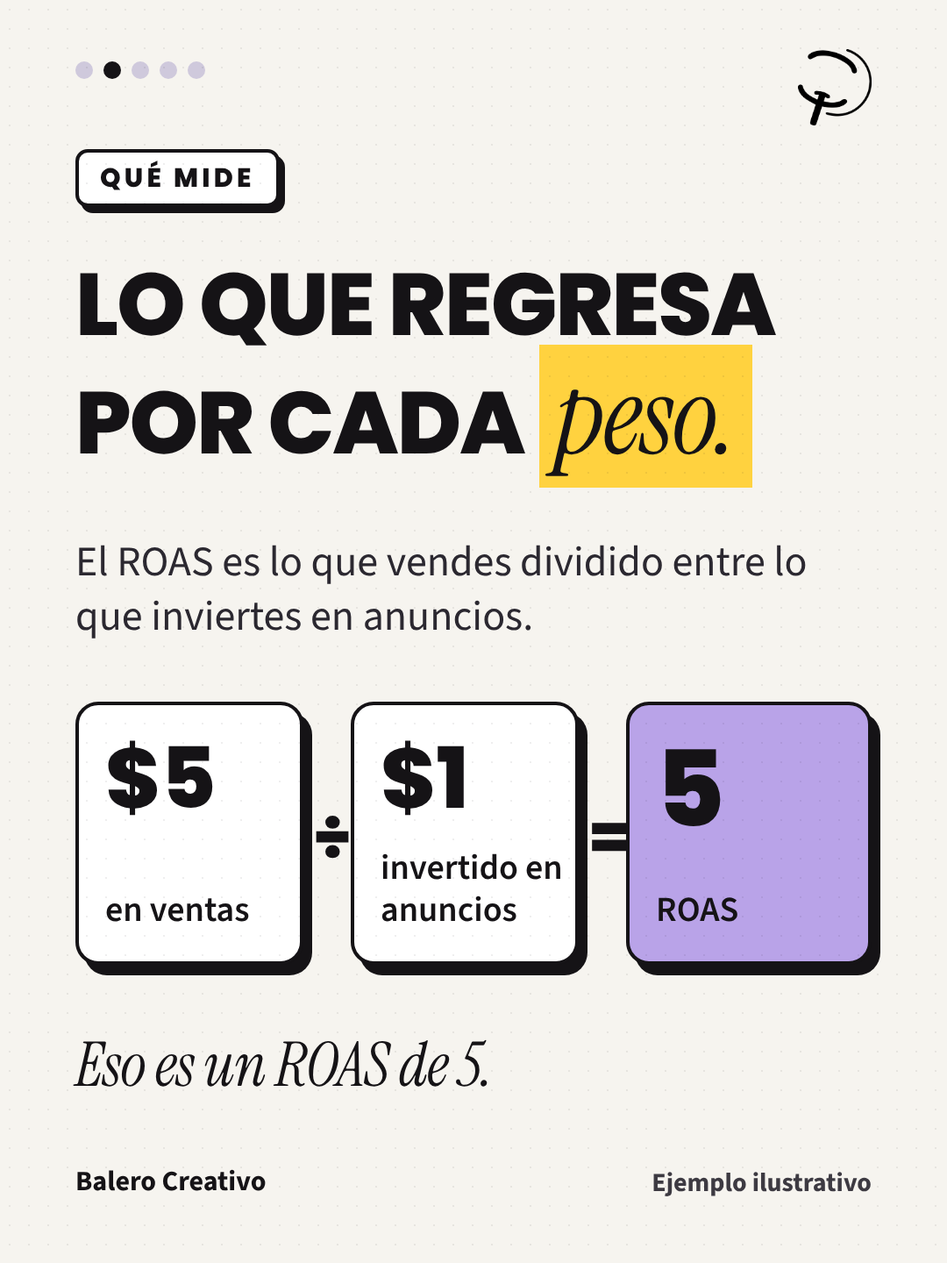
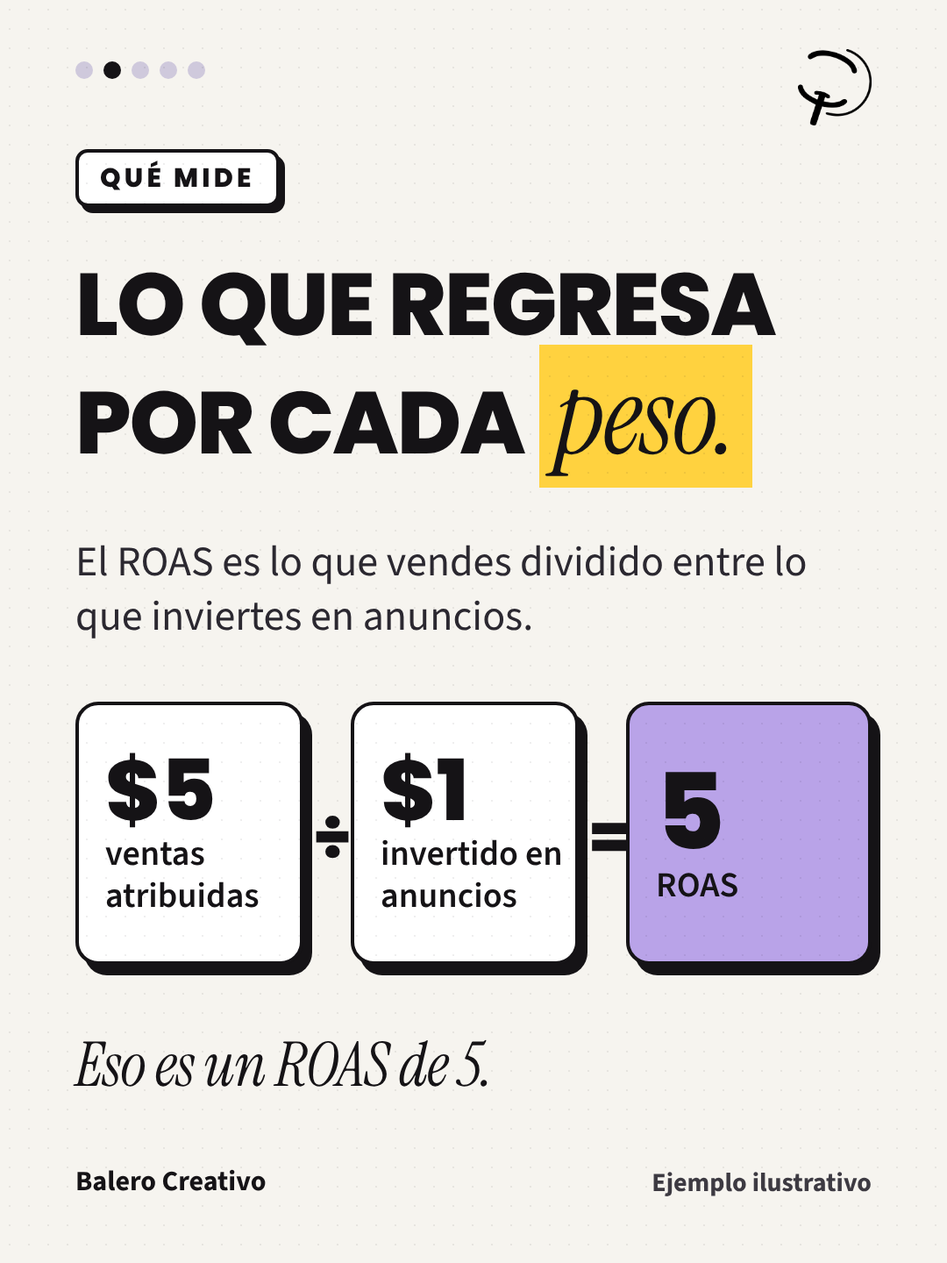
ROAS: texto centrado verticalmente en las cajas; fórmula con ventas atribuidas
Claude-Session: https://claude.ai/code/session_01Bq7ZC7FDz5LcdZBgNXTuBm

Changed region(s): [[0.3972, 0.5938, 0.6111, 0.75], [0.0917, 0.5625, 0.275, 0.75], [0.6722, 0.5938, 0.7944, 0.75]]

diff --git a/clientes/balero/diseno/2026-11/estilo-editorial/semana/roasig.html b/clientes/balero/diseno/2026-11/estilo-editorial/semana/roasig.html
@@ -60,4 +60,4 @@ body{background:#888}
 .meter{position:absolute;left:86px;right:86px;background:#fff;border:4px solid #151316;border-radius:26px;box-shadow:10px 12px 0 #151316;overflow:hidden}
 
 .bigy{position:absolute;left:86px;font:800 330px/.9 Poppins;background:#FFD23F;padding:10px 30px 24px;letter-spacing:-.04em}
-</style></head><body><div class="s" id="s1"><div class="dots"><i style="background:#151316"></i><i style="background:#cfc9dc"></i><i style="background:#cfc9dc"></i><i style="background:#cfc9dc"></i><i style="background:#cfc9dc"></i></div><img class="logo" src="/home/user/balero/.claude/skills/balero-imagenes/assets/logo-balero.png"><div class="kick" style="top:170px">Pregunta de dueños de negocio</div><div class="serif" style="position:absolute;left:86px;top:290px;font-size:104px;line-height:1">El ROAS no</div><div class="big" style="top:420px;font-size:120px;line-height:1.08">DESCUENTA</div><div class="big" style="top:540px;font-size:120px;line-height:1.08">TUS COSTOS.</div><div class="serif" style="position:absolute;left:86px;top:760px;font-size:56px;line-height:1"><span class="hl">Tu ROAS puede verse bien</span></div><div class="serif" style="position:absolute;left:86px;top:836px;font-size:56px;line-height:1"><span class="hl">y tu negocio perder dinero.</span></div><div class="stat" style="left:86px;top:1000px;width:908px;height:230px;background:#fff"><b style="font-size:96px">ROAS</b><span>ventas ÷ inversión en anuncios</span></div><div class="foot"><span>Balero Creativo</span></div><div style="position:absolute;right:86px;bottom:70px;font:800 30px Poppins;letter-spacing:.14em">DESLIZA →</div></div><div class="s" id="s2"><div class="dots"><i style="background:#cfc9dc"></i><i style="background:#151316"></i><i style="background:#cfc9dc"></i><i style="background:#cfc9dc"></i><i style="background:#cfc9dc"></i></div><img class="logo" src="/home/user/balero/.claude/skills/balero-imagenes/assets/logo-balero.png"><div class="chip">QUÉ MIDE</div><div class="t" style="top:290px;font-size:100px">Lo que regresa<br>por cada <span class="serif" style="font-size:1.25em;text-transform:none;font-weight:400;background:#FFD23F;padding:0 18px">peso.</span></div><div class="body" style="top:610px;width:880px;font-size:48px;color:#2b2830">El ROAS es lo que vendes dividido entre lo que inviertes en anuncios.</div><div style="position:absolute;left:86px;top:800px;width:260px;height:300px;background:#fff;border:4px solid #151316;border-radius:26px;box-shadow:10px 12px 0 #151316"><b style="position:absolute;left:30px;top:36px;font:800 96px/1 Poppins">$5</b><span style="position:absolute;left:30px;bottom:34px;font:600 40px/1.2 'Source Sans Pro'">en ventas</span></div><div class="sc" style="left:358px;top:900px">÷</div><div style="position:absolute;left:400px;top:800px;width:260px;height:300px;background:#fff;border:4px solid #151316;border-radius:26px;box-shadow:10px 12px 0 #151316"><b style="position:absolute;left:30px;top:36px;font:800 96px/1 Poppins">$1</b><span style="position:absolute;left:30px;bottom:34px;font:600 40px/1.2 'Source Sans Pro'">invertido en anuncios</span></div><div class="sc" style="left:672px;top:900px">=</div><div style="position:absolute;left:714px;top:800px;width:280px;height:300px;background:#B9A3E8;border:4px solid #151316;border-radius:26px;box-shadow:10px 12px 0 #151316"><b style="position:absolute;left:30px;top:36px;font:800 120px/1 Poppins">5</b><span style="position:absolute;left:30px;bottom:34px;font:600 40px/1.2 'Source Sans Pro'">ROAS</span></div><div class="serif" style="position:absolute;left:86px;top:1180px;font-size:70px;line-height:1">Eso es un ROAS de 5.</div><div class="foot"><span>Balero Creativo</span></div><div style="position:absolute;right:86px;bottom:70px;font:700 30px 'Source Sans Pro';color:#3d3a42;text-align:right;max-width:640px">Ejemplo ilustrativo</div></div><div class="s" id="s3"><div class="dots"><i style="background:#cfc9dc"></i><i style="background:#cfc9dc"></i><i style="background:#151316"></i><i style="background:#cfc9dc"></i><i style="background:#cfc9dc"></i></div><img class="logo" src="/home/user/balero/.claude/skills/balero-imagenes/assets/logo-balero.png"><div class="chip">LO QUE NO INCLUYE</div><div class="t" style="top:290px;font-size:100px">El ROAS no ve<br>tus <span class="serif" style="font-size:1.25em;text-transform:none;font-weight:400;background:#FFD23F;padding:0 18px">costos.</span></div><div class="body" style="top:610px;width:880px;font-size:48px;color:#2b2830">No descuenta el producto, el envío, las comisiones ni tu tiempo.</div><div class="cmp bad" style="top:815px;height:190px"><div class="m">✗</div><div><small>NO INCLUYE</small>Producto, envío, comisiones y tu tiempo</div></div><div class="cmp good" style="top:1025px;height:190px"><div class="m">✓</div><div><small>SÍ TE DICE</small>Cuánto regresa cada peso en anuncios</div></div><div class="foot"><span>Balero Creativo</span></div></div><div class="s" id="s4"><div class="dots"><i style="background:#cfc9dc"></i><i style="background:#cfc9dc"></i><i style="background:#cfc9dc"></i><i style="background:#151316"></i><i style="background:#cfc9dc"></i></div><img class="logo" src="/home/user/balero/.claude/skills/balero-imagenes/assets/logo-balero.png"><div class="chip">LO QUE SÍ DICE</div><div class="t" style="top:290px;font-size:90px">Pagar el anuncio<br>no es <span class="serif" style="font-size:1.25em;text-transform:none;font-weight:400;background:#FFD23F;padding:0 18px">ganar.</span></div><div class="body" style="top:610px;width:880px;font-size:48px;color:#2b2830">El ROAS compara campañas entre sí. Para saber si ganas, calcula cuánto te queda por venta.</div><div class="stat" style="left:86px;top:820px;width:908px;height:230px;background:#fff"><b style="font-size:80px">Tu margen</b><span>lo que te queda después de costos y anuncios</span></div><div class="serif" style="position:absolute;left:86px;top:1110px;font-size:56px;line-height:1">Calcula tu margen antes de subir el presupuesto.</div><div class="foot"><span>Balero Creativo</span></div></div><div class="s" id="s5"><div class="dots"><i style="background:#cfc9dc"></i><i style="background:#cfc9dc"></i><i style="background:#cfc9dc"></i><i style="background:#cfc9dc"></i><i style="background:#151316"></i></div><img class="logo" src="/home/user/balero/.claude/skills/balero-imagenes/assets/logo-balero.png"><div class="serif" style="position:absolute;left:86px;top:280px;font-size:96px;line-height:1">Tú decides</div><div class="big" style="top:400px;font-size:100px;line-height:1.08">CUÁNTO TE QUEDA</div><div class="serif" style="position:absolute;left:86px;top:560px;font-size:96px;line-height:1"><span class="hl">por venta.</span></div><div class="tape" style="top:800px;font-family:Poppins;font-weight:800;font-size:36px">Diagnóstico gratis de 15 minutos</div><div class="arrow" style="top:800px;transform:translateY(22px)">→</div><div class="body" style="top:1000px;width:880px">Escríbenos por mensaje directo.</div><div class="foot"><span>Balero Creativo</span></div></div></body></html>
+</style></head><body><div class="s" id="s1"><div class="dots"><i style="background:#151316"></i><i style="background:#cfc9dc"></i><i style="background:#cfc9dc"></i><i style="background:#cfc9dc"></i><i style="background:#cfc9dc"></i></div><img class="logo" src="/home/user/balero/.claude/skills/balero-imagenes/assets/logo-balero.png"><div class="kick" style="top:170px">Pregunta de dueños de negocio</div><div class="serif" style="position:absolute;left:86px;top:290px;font-size:104px;line-height:1">El ROAS no</div><div class="big" style="top:420px;font-size:120px;line-height:1.08">DESCUENTA</div><div class="big" style="top:540px;font-size:120px;line-height:1.08">TUS COSTOS.</div><div class="serif" style="position:absolute;left:86px;top:760px;font-size:56px;line-height:1"><span class="hl">Tu ROAS puede verse bien</span></div><div class="serif" style="position:absolute;left:86px;top:836px;font-size:56px;line-height:1"><span class="hl">y tu negocio perder dinero.</span></div><div class="stat" style="display:flex;flex-direction:column;justify-content:center;left:86px;top:1000px;width:908px;height:230px;background:#fff"><b style="font-size:96px">ROAS</b><span>ventas atribuidas ÷ inversión en anuncios</span></div><div class="foot"><span>Balero Creativo</span></div><div style="position:absolute;right:86px;bottom:70px;font:800 30px Poppins;letter-spacing:.14em">DESLIZA →</div></div><div class="s" id="s2"><div class="dots"><i style="background:#cfc9dc"></i><i style="background:#151316"></i><i style="background:#cfc9dc"></i><i style="background:#cfc9dc"></i><i style="background:#cfc9dc"></i></div><img class="logo" src="/home/user/balero/.claude/skills/balero-imagenes/assets/logo-balero.png"><div class="chip">QUÉ MIDE</div><div class="t" style="top:290px;font-size:100px">Lo que regresa<br>por cada <span class="serif" style="font-size:1.25em;text-transform:none;font-weight:400;background:#FFD23F;padding:0 18px">peso.</span></div><div class="body" style="top:610px;width:880px;font-size:48px;color:#2b2830">El ROAS es lo que vendes dividido entre lo que inviertes en anuncios.</div><div style="position:absolute;left:86px;top:800px;width:260px;height:300px;background:#fff;border:4px solid #151316;border-radius:26px;box-shadow:10px 12px 0 #151316;display:flex;flex-direction:column;justify-content:center;padding-left:30px"><b style="font:800 96px/1 Poppins">$5</b><span style="font:600 40px/1.2 'Source Sans Pro'">ventas atribuidas</span></div><div class="sc" style="left:358px;top:900px">÷</div><div style="position:absolute;left:400px;top:800px;width:260px;height:300px;background:#fff;border:4px solid #151316;border-radius:26px;box-shadow:10px 12px 0 #151316;display:flex;flex-direction:column;justify-content:center;padding-left:30px"><b style="font:800 96px/1 Poppins">$1</b><span style="font:600 40px/1.2 'Source Sans Pro'">invertido en anuncios</span></div><div class="sc" style="left:672px;top:900px">=</div><div style="position:absolute;left:714px;top:800px;width:280px;height:300px;background:#B9A3E8;border:4px solid #151316;border-radius:26px;box-shadow:10px 12px 0 #151316;display:flex;flex-direction:column;justify-content:center;padding-left:30px"><b style="font:800 120px/1 Poppins">5</b><span style="font:600 40px/1.2 'Source Sans Pro'">ROAS</span></div><div class="serif" style="position:absolute;left:86px;top:1180px;font-size:70px;line-height:1">Eso es un ROAS de 5.</div><div class="foot"><span>Balero Creativo</span></div><div style="position:absolute;right:86px;bottom:70px;font:700 30px 'Source Sans Pro';color:#3d3a42;text-align:right;max-width:640px">Ejemplo ilustrativo</div></div><div class="s" id="s3"><div class="dots"><i style="background:#cfc9dc"></i><i style="background:#cfc9dc"></i><i style="background:#151316"></i><i style="background:#cfc9dc"></i><i style="background:#cfc9dc"></i></div><img class="logo" src="/home/user/balero/.claude/skills/balero-imagenes/assets/logo-balero.png"><div class="chip">LO QUE NO INCLUYE</div><div class="t" style="top:290px;font-size:100px">El ROAS no ve<br>tus <span class="serif" style="font-size:1.25em;text-transform:none;font-weight:400;background:#FFD23F;padding:0 18px">costos.</span></div><div class="body" style="top:610px;width:880px;font-size:48px;color:#2b2830">No descuenta el producto, el envío, las comisiones ni tu tiempo.</div><div class="cmp bad" style="display:flex;align-items:center;top:815px;height:190px"><div class="m">✗</div><div><small>NO INCLUYE</small>Producto, envío, comisiones y tu tiempo</div></div><div class="cmp good" style="display:flex;align-items:center;top:1025px;height:190px"><div class="m">✓</div><div><small>SÍ TE DICE</small>Cuánto regresa cada peso en anuncios</div></div><div class="foot"><span>Balero Creativo</span></div></div><div class="s" id="s4"><div class="dots"><i style="background:#cfc9dc"></i><i style="background:#cfc9dc"></i><i style="background:#cfc9dc"></i><i style="background:#151316"></i><i style="background:#cfc9dc"></i></div><img class="logo" src="/home/user/balero/.claude/skills/balero-imagenes/assets/logo-balero.png"><div class="chip">LO QUE SÍ DICE</div><div class="t" style="top:290px;font-size:90px">Pagar el anuncio<br>no es <span class="serif" style="font-size:1.25em;text-transform:none;font-weight:400;background:#FFD23F;padding:0 18px">ganar.</span></div><div class="body" style="top:610px;width:880px;font-size:48px;color:#2b2830">El ROAS compara campañas entre sí. Para saber si ganas, calcula cuánto te queda por venta.</div><div class="stat" style="display:flex;flex-direction:column;justify-content:center;left:86px;top:820px;width:908px;height:230px;background:#fff"><b style="font-size:80px">Tu margen</b><span>lo que te queda después de costos y anuncios</span></div><div class="serif" style="position:absolute;left:86px;top:1110px;font-size:56px;line-height:1">Calcula tu margen antes de subir el presupuesto.</div><div class="foot"><span>Balero Creativo</span></div></div><div class="s" id="s5"><div class="dots"><i style="background:#cfc9dc"></i><i style="background:#cfc9dc"></i><i style="background:#cfc9dc"></i><i style="background:#cfc9dc"></i><i style="background:#151316"></i></div><img class="logo" src="/home/user/balero/.claude/skills/balero-imagenes/assets/logo-balero.png"><div class="serif" style="position:absolute;left:86px;top:280px;font-size:96px;line-height:1">Tú decides</div><div class="big" style="top:400px;font-size:100px;line-height:1.08">CUÁNTO TE QUEDA</div><div class="serif" style="position:absolute;left:86px;top:560px;font-size:96px;line-height:1"><span class="hl">por venta.</span></div><div class="tape" style="top:800px;font-family:Poppins;font-weight:800;font-size:36px">Diagnóstico gratis de 15 minutos</div><div class="arrow" style="top:800px;transform:translateY(22px)">→</div><div class="body" style="top:1000px;width:880px">Escríbenos por mensaje directo.</div><div class="foot"><span>Balero Creativo</span></div></div></body></html>

diff --git a/clientes/balero/diseno/2026-11/semana-09/roas-ig/roasig.html b/clientes/balero/diseno/2026-11/semana-09/roas-ig/roasig.html
@@ -60,4 +60,4 @@ body{background:#888}
 .meter{position:absolute;left:86px;right:86px;background:#fff;border:4px solid #151316;border-radius:26px;box-shadow:10px 12px 0 #151316;overflow:hidden}
 
 .bigy{position:absolute;left:86px;font:800 330px/.9 Poppins;background:#FFD23F;padding:10px 30px 24px;letter-spacing:-.04em}
-</style></head><body><div class="s" id="s1"><div class="dots"><i style="background:#151316"></i><i style="background:#cfc9dc"></i><i style="background:#cfc9dc"></i><i style="background:#cfc9dc"></i><i style="background:#cfc9dc"></i></div><img class="logo" src="/home/user/balero/.claude/skills/balero-imagenes/assets/logo-balero.png"><div class="kick" style="top:170px">Pregunta de dueños de negocio</div><div class="serif" style="position:absolute;left:86px;top:290px;font-size:104px;line-height:1">El ROAS no</div><div class="big" style="top:420px;font-size:120px;line-height:1.08">DESCUENTA</div><div class="big" style="top:540px;font-size:120px;line-height:1.08">TUS COSTOS.</div><div class="serif" style="position:absolute;left:86px;top:760px;font-size:56px;line-height:1"><span class="hl">Tu ROAS puede verse bien</span></div><div class="serif" style="position:absolute;left:86px;top:836px;font-size:56px;line-height:1"><span class="hl">y tu negocio perder dinero.</span></div><div class="stat" style="left:86px;top:1000px;width:908px;height:230px;background:#fff"><b style="font-size:96px">ROAS</b><span>ventas ÷ inversión en anuncios</span></div><div class="foot"><span>Balero Creativo</span></div><div style="position:absolute;right:86px;bottom:70px;font:800 30px Poppins;letter-spacing:.14em">DESLIZA →</div></div><div class="s" id="s2"><div class="dots"><i style="background:#cfc9dc"></i><i style="background:#151316"></i><i style="background:#cfc9dc"></i><i style="background:#cfc9dc"></i><i style="background:#cfc9dc"></i></div><img class="logo" src="/home/user/balero/.claude/skills/balero-imagenes/assets/logo-balero.png"><div class="chip">QUÉ MIDE</div><div class="t" style="top:290px;font-size:100px">Lo que regresa<br>por cada <span class="serif" style="font-size:1.25em;text-transform:none;font-weight:400;background:#FFD23F;padding:0 18px">peso.</span></div><div class="body" style="top:610px;width:880px;font-size:48px;color:#2b2830">El ROAS es lo que vendes dividido entre lo que inviertes en anuncios.</div><div style="position:absolute;left:86px;top:800px;width:260px;height:300px;background:#fff;border:4px solid #151316;border-radius:26px;box-shadow:10px 12px 0 #151316"><b style="position:absolute;left:30px;top:36px;font:800 96px/1 Poppins">$5</b><span style="position:absolute;left:30px;bottom:34px;font:600 40px/1.2 'Source Sans Pro'">en ventas</span></div><div class="sc" style="left:358px;top:900px">÷</div><div style="position:absolute;left:400px;top:800px;width:260px;height:300px;background:#fff;border:4px solid #151316;border-radius:26px;box-shadow:10px 12px 0 #151316"><b style="position:absolute;left:30px;top:36px;font:800 96px/1 Poppins">$1</b><span style="position:absolute;left:30px;bottom:34px;font:600 40px/1.2 'Source Sans Pro'">invertido en anuncios</span></div><div class="sc" style="left:672px;top:900px">=</div><div style="position:absolute;left:714px;top:800px;width:280px;height:300px;background:#B9A3E8;border:4px solid #151316;border-radius:26px;box-shadow:10px 12px 0 #151316"><b style="position:absolute;left:30px;top:36px;font:800 120px/1 Poppins">5</b><span style="position:absolute;left:30px;bottom:34px;font:600 40px/1.2 'Source Sans Pro'">ROAS</span></div><div class="serif" style="position:absolute;left:86px;top:1180px;font-size:70px;line-height:1">Eso es un ROAS de 5.</div><div class="foot"><span>Balero Creativo</span></div><div style="position:absolute;right:86px;bottom:70px;font:700 30px 'Source Sans Pro';color:#3d3a42;text-align:right;max-width:640px">Ejemplo ilustrativo</div></div><div class="s" id="s3"><div class="dots"><i style="background:#cfc9dc"></i><i style="background:#cfc9dc"></i><i style="background:#151316"></i><i style="background:#cfc9dc"></i><i style="background:#cfc9dc"></i></div><img class="logo" src="/home/user/balero/.claude/skills/balero-imagenes/assets/logo-balero.png"><div class="chip">LO QUE NO INCLUYE</div><div class="t" style="top:290px;font-size:100px">El ROAS no ve<br>tus <span class="serif" style="font-size:1.25em;text-transform:none;font-weight:400;background:#FFD23F;padding:0 18px">costos.</span></div><div class="body" style="top:610px;width:880px;font-size:48px;color:#2b2830">No descuenta el producto, el envío, las comisiones ni tu tiempo.</div><div class="cmp bad" style="top:815px;height:190px"><div class="m">✗</div><div><small>NO INCLUYE</small>Producto, envío, comisiones y tu tiempo</div></div><div class="cmp good" style="top:1025px;height:190px"><div class="m">✓</div><div><small>SÍ TE DICE</small>Cuánto regresa cada peso en anuncios</div></div><div class="foot"><span>Balero Creativo</span></div></div><div class="s" id="s4"><div class="dots"><i style="background:#cfc9dc"></i><i style="background:#cfc9dc"></i><i style="background:#cfc9dc"></i><i style="background:#151316"></i><i style="background:#cfc9dc"></i></div><img class="logo" src="/home/user/balero/.claude/skills/balero-imagenes/assets/logo-balero.png"><div class="chip">LO QUE SÍ DICE</div><div class="t" style="top:290px;font-size:90px">Pagar el anuncio<br>no es <span class="serif" style="font-size:1.25em;text-transform:none;font-weight:400;background:#FFD23F;padding:0 18px">ganar.</span></div><div class="body" style="top:610px;width:880px;font-size:48px;color:#2b2830">El ROAS compara campañas entre sí. Para saber si ganas, calcula cuánto te queda por venta.</div><div class="stat" style="left:86px;top:820px;width:908px;height:230px;background:#fff"><b style="font-size:80px">Tu margen</b><span>lo que te queda después de costos y anuncios</span></div><div class="serif" style="position:absolute;left:86px;top:1110px;font-size:56px;line-height:1">Calcula tu margen antes de subir el presupuesto.</div><div class="foot"><span>Balero Creativo</span></div></div><div class="s" id="s5"><div class="dots"><i style="background:#cfc9dc"></i><i style="background:#cfc9dc"></i><i style="background:#cfc9dc"></i><i style="background:#cfc9dc"></i><i style="background:#151316"></i></div><img class="logo" src="/home/user/balero/.claude/skills/balero-imagenes/assets/logo-balero.png"><div class="serif" style="position:absolute;left:86px;top:280px;font-size:96px;line-height:1">Tú decides</div><div class="big" style="top:400px;font-size:100px;line-height:1.08">CUÁNTO TE QUEDA</div><div class="serif" style="position:absolute;left:86px;top:560px;font-size:96px;line-height:1"><span class="hl">por venta.</span></div><div class="tape" style="top:800px;font-family:Poppins;font-weight:800;font-size:36px">Diagnóstico gratis de 15 minutos</div><div class="arrow" style="top:800px;transform:translateY(22px)">→</div><div class="body" style="top:1000px;width:880px">Escríbenos por mensaje directo.</div><div class="foot"><span>Balero Creativo</span></div></div></body></html>
+</style></head><body><div class="s" id="s1"><div class="dots"><i style="background:#151316"></i><i style="background:#cfc9dc"></i><i style="background:#cfc9dc"></i><i style="background:#cfc9dc"></i><i style="background:#cfc9dc"></i></div><img class="logo" src="/home/user/balero/.claude/skills/balero-imagenes/assets/logo-balero.png"><div class="kick" style="top:170px">Pregunta de dueños de negocio</div><div class="serif" style="position:absolute;left:86px;top:290px;font-size:104px;line-height:1">El ROAS no</div><div class="big" style="top:420px;font-size:120px;line-height:1.08">DESCUENTA</div><div class="big" style="top:540px;font-size:120px;line-height:1.08">TUS COSTOS.</div><div class="serif" style="position:absolute;left:86px;top:760px;font-size:56px;line-height:1"><span class="hl">Tu ROAS puede verse bien</span></div><div class="serif" style="position:absolute;left:86px;top:836px;font-size:56px;line-height:1"><span class="hl">y tu negocio perder dinero.</span></div><div class="stat" style="display:flex;flex-direction:column;justify-content:center;left:86px;top:1000px;width:908px;height:230px;background:#fff"><b style="font-size:96px">ROAS</b><span>ventas atribuidas ÷ inversión en anuncios</span></div><div class="foot"><span>Balero Creativo</span></div><div style="position:absolute;right:86px;bottom:70px;font:800 30px Poppins;letter-spacing:.14em">DESLIZA →</div></div><div class="s" id="s2"><div class="dots"><i style="background:#cfc9dc"></i><i style="background:#151316"></i><i style="background:#cfc9dc"></i><i style="background:#cfc9dc"></i><i style="background:#cfc9dc"></i></div><img class="logo" src="/home/user/balero/.claude/skills/balero-imagenes/assets/logo-balero.png"><div class="chip">QUÉ MIDE</div><div class="t" style="top:290px;font-size:100px">Lo que regresa<br>por cada <span class="serif" style="font-size:1.25em;text-transform:none;font-weight:400;background:#FFD23F;padding:0 18px">peso.</span></div><div class="body" style="top:610px;width:880px;font-size:48px;color:#2b2830">El ROAS es lo que vendes dividido entre lo que inviertes en anuncios.</div><div style="position:absolute;left:86px;top:800px;width:260px;height:300px;background:#fff;border:4px solid #151316;border-radius:26px;box-shadow:10px 12px 0 #151316;display:flex;flex-direction:column;justify-content:center;padding-left:30px"><b style="font:800 96px/1 Poppins">$5</b><span style="font:600 40px/1.2 'Source Sans Pro'">ventas atribuidas</span></div><div class="sc" style="left:358px;top:900px">÷</div><div style="position:absolute;left:400px;top:800px;width:260px;height:300px;background:#fff;border:4px solid #151316;border-radius:26px;box-shadow:10px 12px 0 #151316;display:flex;flex-direction:column;justify-content:center;padding-left:30px"><b style="font:800 96px/1 Poppins">$1</b><span style="font:600 40px/1.2 'Source Sans Pro'">invertido en anuncios</span></div><div class="sc" style="left:672px;top:900px">=</div><div style="position:absolute;left:714px;top:800px;width:280px;height:300px;background:#B9A3E8;border:4px solid #151316;border-radius:26px;box-shadow:10px 12px 0 #151316;display:flex;flex-direction:column;justify-content:center;padding-left:30px"><b style="font:800 120px/1 Poppins">5</b><span style="font:600 40px/1.2 'Source Sans Pro'">ROAS</span></div><div class="serif" style="position:absolute;left:86px;top:1180px;font-size:70px;line-height:1">Eso es un ROAS de 5.</div><div class="foot"><span>Balero Creativo</span></div><div style="position:absolute;right:86px;bottom:70px;font:700 30px 'Source Sans Pro';color:#3d3a42;text-align:right;max-width:640px">Ejemplo ilustrativo</div></div><div class="s" id="s3"><div class="dots"><i style="background:#cfc9dc"></i><i style="background:#cfc9dc"></i><i style="background:#151316"></i><i style="background:#cfc9dc"></i><i style="background:#cfc9dc"></i></div><img class="logo" src="/home/user/balero/.claude/skills/balero-imagenes/assets/logo-balero.png"><div class="chip">LO QUE NO INCLUYE</div><div class="t" style="top:290px;font-size:100px">El ROAS no ve<br>tus <span class="serif" style="font-size:1.25em;text-transform:none;font-weight:400;background:#FFD23F;padding:0 18px">costos.</span></div><div class="body" style="top:610px;width:880px;font-size:48px;color:#2b2830">No descuenta el producto, el envío, las comisiones ni tu tiempo.</div><div class="cmp bad" style="display:flex;align-items:center;top:815px;height:190px"><div class="m">✗</div><div><small>NO INCLUYE</small>Producto, envío, comisiones y tu tiempo</div></div><div class="cmp good" style="display:flex;align-items:center;top:1025px;height:190px"><div class="m">✓</div><div><small>SÍ TE DICE</small>Cuánto regresa cada peso en anuncios</div></div><div class="foot"><span>Balero Creativo</span></div></div><div class="s" id="s4"><div class="dots"><i style="background:#cfc9dc"></i><i style="background:#cfc9dc"></i><i style="background:#cfc9dc"></i><i style="background:#151316"></i><i style="background:#cfc9dc"></i></div><img class="logo" src="/home/user/balero/.claude/skills/balero-imagenes/assets/logo-balero.png"><div class="chip">LO QUE SÍ DICE</div><div class="t" style="top:290px;font-size:90px">Pagar el anuncio<br>no es <span class="serif" style="font-size:1.25em;text-transform:none;font-weight:400;background:#FFD23F;padding:0 18px">ganar.</span></div><div class="body" style="top:610px;width:880px;font-size:48px;color:#2b2830">El ROAS compara campañas entre sí. Para saber si ganas, calcula cuánto te queda por venta.</div><div class="stat" style="display:flex;flex-direction:column;justify-content:center;left:86px;top:820px;width:908px;height:230px;background:#fff"><b style="font-size:80px">Tu margen</b><span>lo que te queda después de costos y anuncios</span></div><div class="serif" style="position:absolute;left:86px;top:1110px;font-size:56px;line-height:1">Calcula tu margen antes de subir el presupuesto.</div><div class="foot"><span>Balero Creativo</span></div></div><div class="s" id="s5"><div class="dots"><i style="background:#cfc9dc"></i><i style="background:#cfc9dc"></i><i style="background:#cfc9dc"></i><i style="background:#cfc9dc"></i><i style="background:#151316"></i></div><img class="logo" src="/home/user/balero/.claude/skills/balero-imagenes/assets/logo-balero.png"><div class="serif" style="position:absolute;left:86px;top:280px;font-size:96px;line-height:1">Tú decides</div><div class="big" style="top:400px;font-size:100px;line-height:1.08">CUÁNTO TE QUEDA</div><div class="serif" style="position:absolute;left:86px;top:560px;font-size:96px;line-height:1"><span class="hl">por venta.</span></div><div class="tape" style="top:800px;font-family:Poppins;font-weight:800;font-size:36px">Diagnóstico gratis de 15 minutos</div><div class="arrow" style="top:800px;transform:translateY(22px)">→</div><div class="body" style="top:1000px;width:880px">Escríbenos por mensaje directo.</div><div class="foot"><span>Balero Creativo</span></div></div></body></html>

diff --git a/clientes/balero/diseno/2026-11/estilo-editorial/semana/defs.py b/clientes/balero/diseno/2026-11/estilo-editorial/semana/defs.py
@@ -150,15 +150,19 @@ muse=[
 ]
 # ---------- ROAS APROBADO (guion 9 nov) ----------
 def bodyL(t,top=610): return f'<div class="body" style="top:{top}px;width:880px;font-size:48px;color:#2b2830">{t}</div>'
+def _cen(h): return h.replace('style="','style="display:flex;flex-direction:column;justify-content:center;',1)
+def statc(*a,**k): return _cen(stat(*a,**k))
+def miniC(*a,**k): return _cen(mini(*a,**k))
+def cmpC(top,cls,sym,label,txt,h=230): return cmp(top,cls,sym,label,txt,h).replace('style="top','style="display:flex;align-items:center;top',1)
 roasig=[
- (kick('Pregunta de dueños de negocio')+serif('El ROAS no',290,104)+big('DESCUENTA',420,120)+big('TUS COSTOS.',540,120)+serif('<span class="hl">Tu ROAS puede verse bien</span>',760,56)+serif('<span class="hl">y tu negocio perder dinero.</span>',836,56)+stat(86,1000,908,230,'ROAS','ventas ÷ inversión en anuncios',fs=96), FD),
+ (kick('Pregunta de dueños de negocio')+serif('El ROAS no',290,104)+big('DESCUENTA',420,120)+big('TUS COSTOS.',540,120)+serif('<span class="hl">Tu ROAS puede verse bien</span>',760,56)+serif('<span class="hl">y tu negocio perder dinero.</span>',836,56)+statc(86,1000,908,230,'ROAS','ventas atribuidas ÷ inversión en anuncios',fs=96), FD),
  (chip('QUÉ MIDE')+title('Lo que regresa','por cada '+hl('peso.'))+bodyL('El ROAS es lo que vendes dividido entre lo que inviertes en anuncios.')+
-   '<div style="position:absolute;left:86px;top:800px;width:260px;height:300px;background:#fff;border:4px solid #151316;border-radius:26px;box-shadow:10px 12px 0 #151316"><b style="position:absolute;left:30px;top:36px;font:800 96px/1 Poppins">$5</b><span style="position:absolute;left:30px;bottom:34px;font:600 40px/1.2 \'Source Sans Pro\'">en ventas</span></div>'+'<div class="sc" style="left:358px;top:900px">÷</div>'+'<div style="position:absolute;left:400px;top:800px;width:260px;height:300px;background:#fff;border:4px solid #151316;border-radius:26px;box-shadow:10px 12px 0 #151316"><b style="position:absolute;left:30px;top:36px;font:800 96px/1 Poppins">$1</b><span style="position:absolute;left:30px;bottom:34px;font:600 40px/1.2 \'Source Sans Pro\'">invertido en anuncios</span></div>'+'<div class="sc" style="left:672px;top:900px">=</div>'+'<div style="position:absolute;left:714px;top:800px;width:280px;height:300px;background:#B9A3E8;border:4px solid #151316;border-radius:26px;box-shadow:10px 12px 0 #151316"><b style="position:absolute;left:30px;top:36px;font:800 120px/1 Poppins">5</b><span style="position:absolute;left:30px;bottom:34px;font:600 40px/1.2 \'Source Sans Pro\'">ROAS</span></div>'+
+   '<div style="position:absolute;left:86px;top:800px;width:260px;height:300px;background:#fff;border:4px solid #151316;border-radius:26px;box-shadow:10px 12px 0 #151316;display:flex;flex-direction:column;justify-content:center;padding-left:30px"><b style="font:800 96px/1 Poppins">$5</b><span style="font:600 40px/1.2 \'Source Sans Pro\'">ventas atribuidas</span></div>'+'<div class="sc" style="left:358px;top:900px">÷</div>'+'<div style="position:absolute;left:400px;top:800px;width:260px;height:300px;background:#fff;border:4px solid #151316;border-radius:26px;box-shadow:10px 12px 0 #151316;display:flex;flex-direction:column;justify-content:center;padding-left:30px"><b style="font:800 96px/1 Poppins">$1</b><span style="font:600 40px/1.2 \'Source Sans Pro\'">invertido en anuncios</span></div>'+'<div class="sc" style="left:672px;top:900px">=</div>'+'<div style="position:absolute;left:714px;top:800px;width:280px;height:300px;background:#B9A3E8;border:4px solid #151316;border-radius:26px;box-shadow:10px 12px 0 #151316;display:flex;flex-direction:column;justify-content:center;padding-left:30px"><b style="font:800 120px/1 Poppins">5</b><span style="font:600 40px/1.2 \'Source Sans Pro\'">ROAS</span></div>'+
    serif('Eso es un ROAS de 5.',1180,70), foot('Ejemplo ilustrativo')),
  (chip('LO QUE NO INCLUYE')+title('El ROAS no ve','tus '+hl('costos.'))+bodyL('No descuenta el producto, el envío, las comisiones ni tu tiempo.')+
-   cmp(815,'bad','✗','NO INCLUYE','Producto, envío, comisiones y tu tiempo',190)+cmp(1025,'good','✓','SÍ TE DICE','Cuánto regresa cada peso en anuncios',190), F),
+   cmpC(815,'bad','✗','NO INCLUYE','Producto, envío, comisiones y tu tiempo',190)+cmpC(1025,'good','✓','SÍ TE DICE','Cuánto regresa cada peso en anuncios',190), F),
  (chip('LO QUE SÍ DICE')+title('Pagar el anuncio','no es '+hl('ganar.'),90)+bodyL('El ROAS compara campañas entre sí. Para saber si ganas, calcula cuánto te queda por venta.')+
-   stat(86,820,908,230,'Tu margen','lo que te queda después de costos y anuncios',fs=80)+serif('Calcula tu margen antes de subir el presupuesto.',1110,56), F),
+   statc(86,820,908,230,'Tu margen','lo que te queda después de costos y anuncios',fs=80)+serif('Calcula tu margen antes de subir el presupuesto.',1110,56), F),
  (serif('Tú decides',280,96)+big('CUÁNTO TE QUEDA',400,100)+serif('<span class="hl">por venta.</span>',560,96)+tape('Diagnóstico gratis de 15 minutos',800)+body('Escríbenos por mensaje directo.',1000), F),
 ]
 ALL={'roas':roas,'stanford':stan,'workday':work,'trigger':trig,'chatgpt':chat,'enlaces':enl,'crm':crm,'muse':muse,'roasig':roasig}
